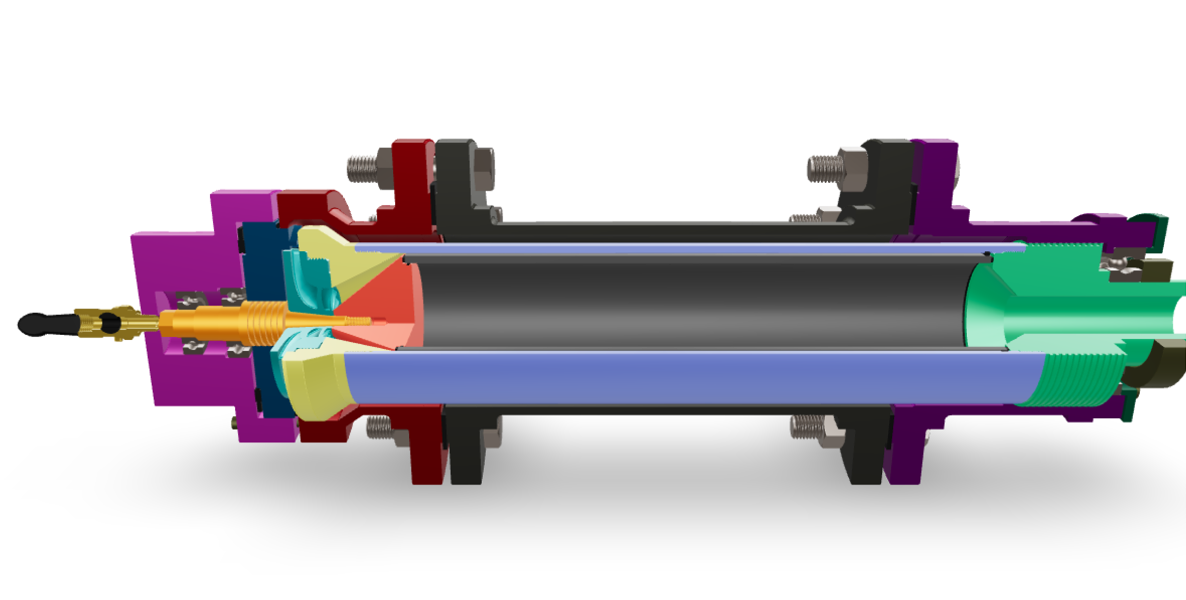
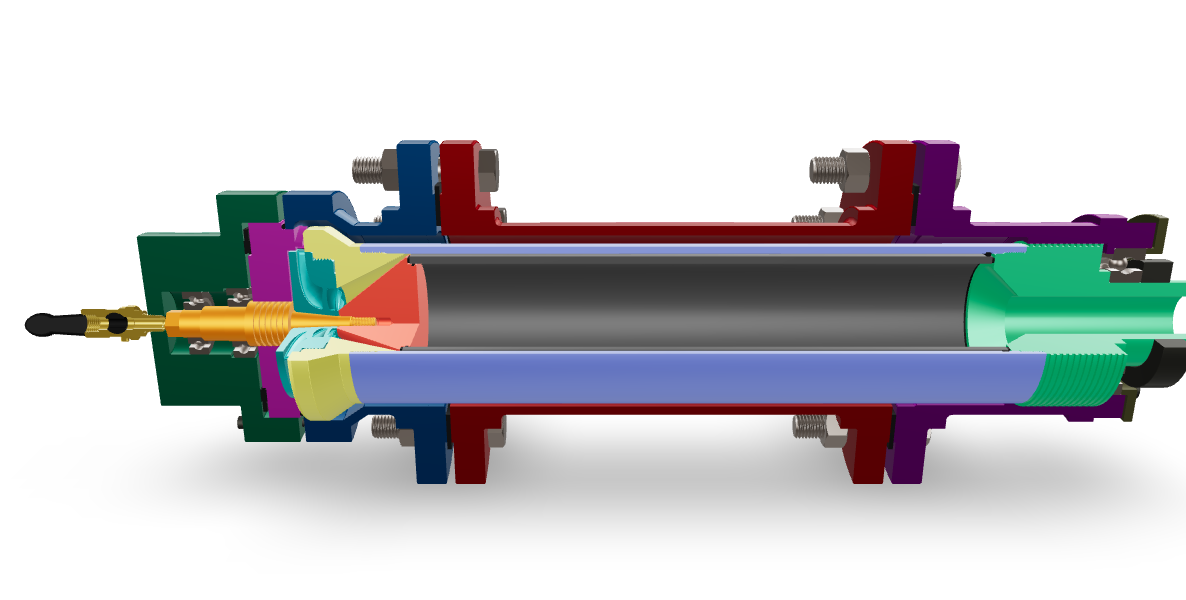
fixed CFE colors

diff --git a/assets/cfe/cfe_model.js b/assets/cfe/cfe_model.js
@@ -17,12 +17,12 @@ cfeParams.addEventListener("load", (ev) => {
   SetUp(6,1,.4,[0,.5,.5]); // turbine
   SetUp(7,0.9,.5,[0,.7,.32]); // URN
   SetUp(8,0.8,.68,[.02,.02,.02]); // rubber
-  SetUp(9,1,.55,[.08,.08,.07]); // flanges
-  SetUp(10,0.9,.5,[.3,0,0]); // PV
-  SetUp(11,0.9,.5,[0,.1,.2]); // adaptor
-  SetUp(12,0.9,.5,[.48,.05,.4]); // stators
-  SetUp(13,0.9,.5,[0,.15,.08]); // end cap
-  SetUp(14,0.9,.5,[.12,.12,.05]); // bearing cap
+  SetUp(14,1,.55,[.08,.08,.07]); // flanges
+  SetUp(9,0.9,.5,[.3,0,0]); // PV
+  SetUp(10,0.9,.5,[0,.08,.2]); // adaptor
+  SetUp(11,0.9,.5,[.48,.05,.4]); // stators
+  SetUp(12,0.9,.5,[0,.15,.08]); // end cap
+  SetUp(13,0.9,.5,[.12,.12,.05]); // bearing cap
   SetUp(15,1,.2,[.8,.6,.1]); // brass
   SetUp(16,0.9,.5,[.2,0,.2]); // inlet manifold
   SetUp(17,1,.33,[0.5,0.52,0.56]); // base plate

diff --git a/docs/assets/cfe/cfe_model.js b/docs/assets/cfe/cfe_model.js
@@ -17,12 +17,12 @@ cfeParams.addEventListener("load", (ev) => {
   SetUp(6,1,.4,[0,.5,.5]); // turbine
   SetUp(7,0.9,.5,[0,.7,.32]); // URN
   SetUp(8,0.8,.68,[.02,.02,.02]); // rubber
-  SetUp(9,1,.55,[.08,.08,.07]); // flanges
-  SetUp(10,0.9,.5,[.3,0,0]); // PV
-  SetUp(11,0.9,.5,[0,.1,.2]); // adaptor
-  SetUp(12,0.9,.5,[.48,.05,.4]); // stators
-  SetUp(13,0.9,.5,[0,.15,.08]); // end cap
-  SetUp(14,0.9,.5,[.12,.12,.05]); // bearing cap
+  SetUp(14,1,.55,[.08,.08,.07]); // flanges
+  SetUp(9,0.9,.5,[.3,0,0]); // PV
+  SetUp(10,0.9,.5,[0,.08,.2]); // adaptor
+  SetUp(11,0.9,.5,[.48,.05,.4]); // stators
+  SetUp(12,0.9,.5,[0,.15,.08]); // end cap
+  SetUp(13,0.9,.5,[.12,.12,.05]); // bearing cap
   SetUp(15,1,.2,[.8,.6,.1]); // brass
   SetUp(16,0.9,.5,[.2,0,.2]); // inlet manifold
   SetUp(17,1,.33,[0.5,0.52,0.56]); // base plate
